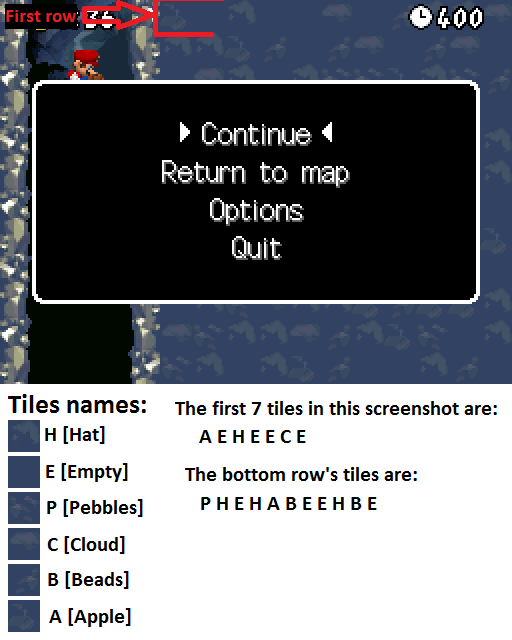
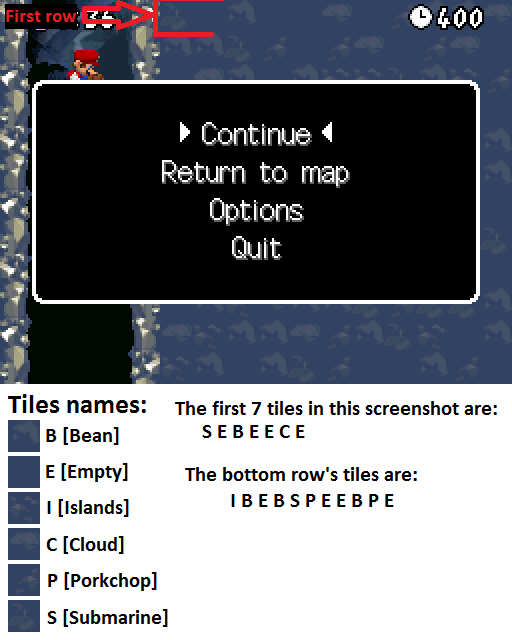
Change some tiles names.

diff --git a/NSMB_RNG/TilesFor12.cs b/NSMB_RNG/TilesFor12.cs
@@ -16,8 +16,7 @@ namespace NSMB_RNG
         const int STEPS_BEFORE = 1937;
         const int TILES_PER_ROW = 27;
         const int TILES_PER_SCREEN_VERTICAL = 12;
-        private static char[] tileLetters = new char[] { 'H', 'E', 'P', 'C', 'B', 'A' };
-        // TODO: Names. Consider changing A to Submarine, H to Bean/Bell/Liver, B to Turtle/Porkchop
+        private static char[] tileLetters = new char[] { 'B', 'E', 'I', 'C', 'P', 'S' };
 
         private static uint LCRNG_NSMB(uint v)
         {
